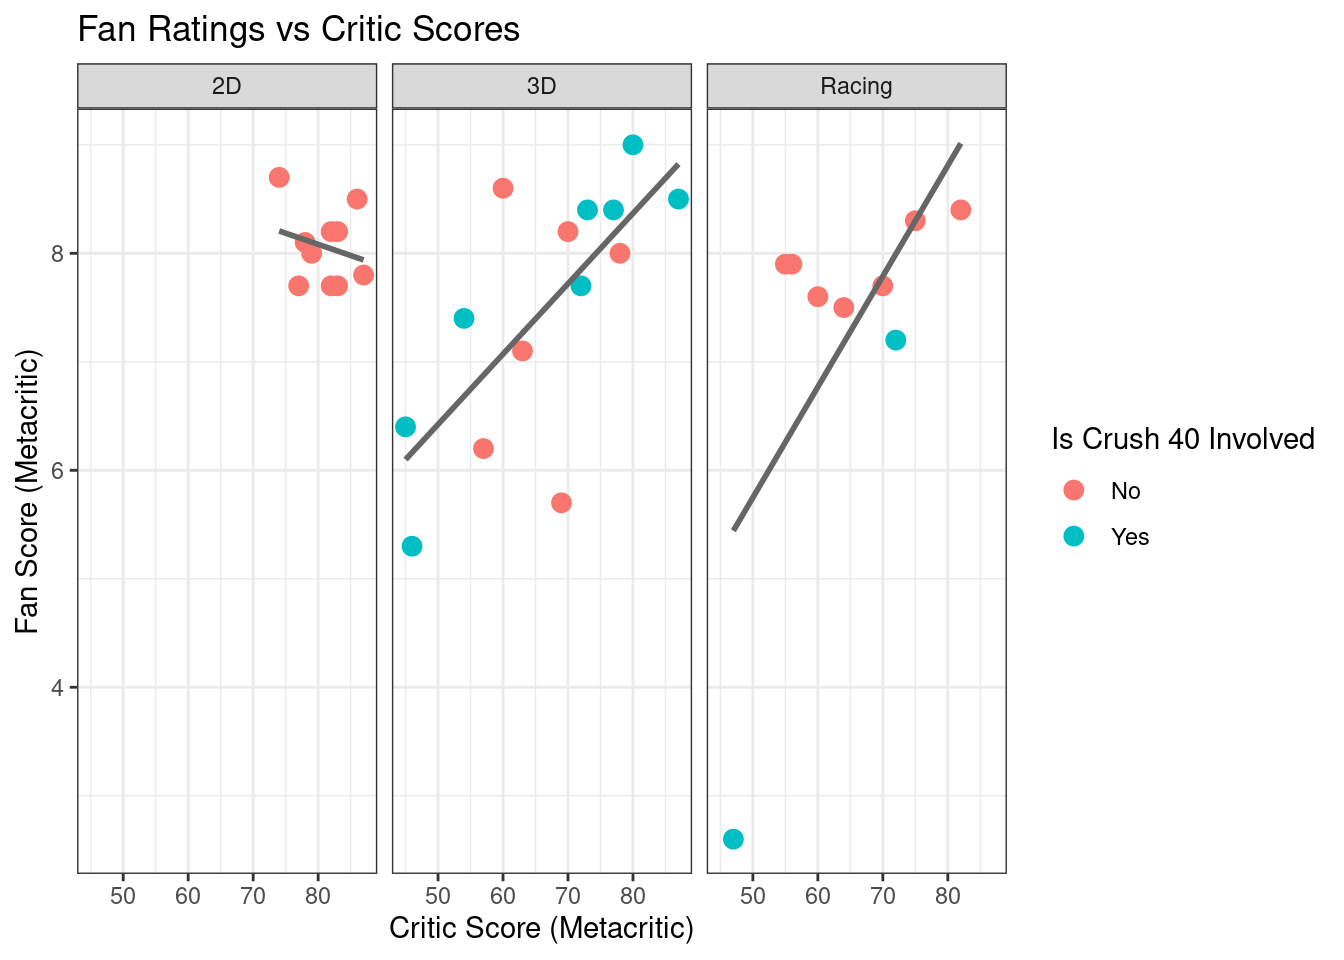
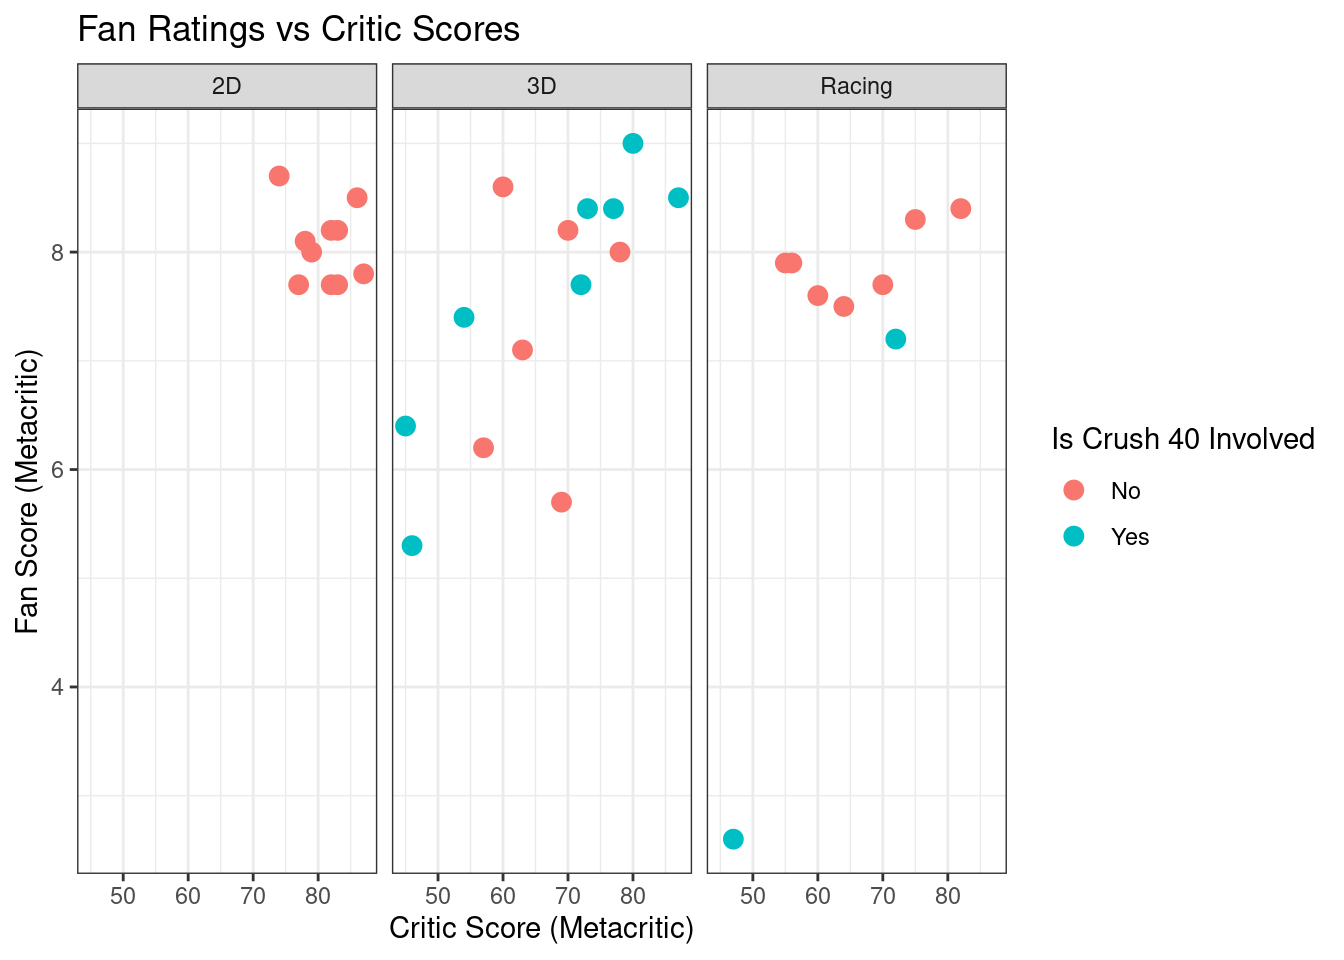
Updated project

diff --git a/docs/final_project.html b/docs/final_project.html
@@ -280,48 +280,8 @@ $(document).ready(function () {
 </div>
 
 
-<pre class="r"><code>library(tidyverse)
-library(janitor)
-library(ggplot2)
-
-# Load Sonic games dataset
-sonic_games_df &lt;- read.csv(&quot;sonic_games.csv&quot;) |&gt; clean_names()
-
-# Convert sales, revenue, and streams to millions
-sonic_games_df &lt;- sonic_games_df |&gt;
-  mutate(
-    units_sold = units_sold / 1e6,
-    gross_revenue = gross_revenue / 1e6,
-    soundtrack_streams = soundtrack_streams / 1e6
-    )
-
-# Group comparisons
-sonic_games_df |&gt;
-  group_by(crush_40_involved) |&gt;
-  summarise(
-    avg_critic = mean(metacritic),
-    avg_user = mean(user_score),
-    avg_sales = mean(units_sold, na.rm = TRUE)
-  )</code></pre>
-<pre><code>## # A tibble: 2 × 4
-##   crush_40_involved avg_critic avg_user avg_sales
-##   &lt;chr&gt;                  &lt;dbl&gt;    &lt;dbl&gt;     &lt;dbl&gt;
-## 1 No                      72.6     7.81      7.89
-## 2 Yes                     65.3     7.09      3.84</code></pre>
-<pre class="r"><code>library(ggplot2)
-# Scatter plot of fan reception vs critic score
-sonic_games_df |&gt;
-  ggplot(aes(x = metacritic, y = user_score)) +
-  geom_point(aes(color = crush_40_involved), size = 3) +
-  geom_smooth(method = &quot;lm&quot;, se = FALSE, color = &quot;gray40&quot;) +
-  labs(title = &quot;Fan Ratings vs Critic Scores&quot;,
-       x = &quot;Critic Score (Metacritic)&quot;,
-       y = &quot;Fan Score (Metacritic)&quot;,
-       color = &quot;Is Crush 40 Involved&quot;) +
-  facet_wrap(~ is_3d) +
-  theme_bw()</code></pre>
-<pre><code>## `geom_smooth()` using formula = &#39;y ~ x&#39;</code></pre>
-<p><img src="final_project_files/figure-html/unnamed-chunk-2-1.png" width="672" /></p>
+<p><img src="final_project_files/figure-html/unnamed-chunk-2-1.png" width="672" /><img src="final_project_files/figure-html/unnamed-chunk-2-2.png" width="672" /></p>
+<p><img src="final_project_files/figure-html/page1-1.png" width="960" /><img src="final_project_files/figure-html/page1-2.png" width="960" /></p>
 
 
 
